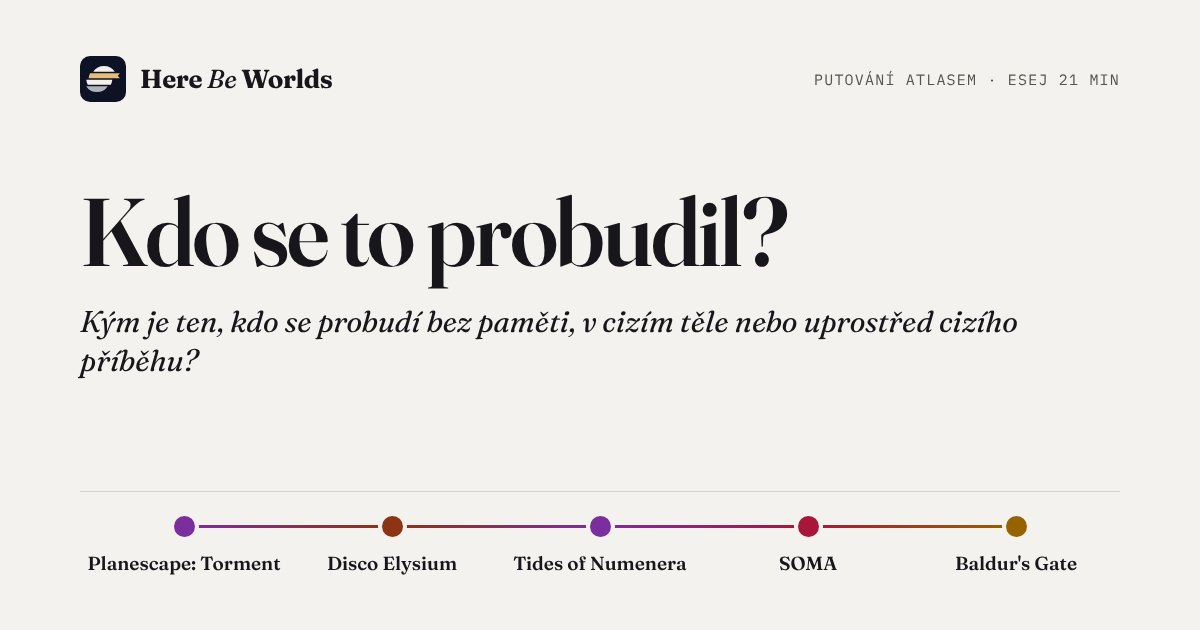
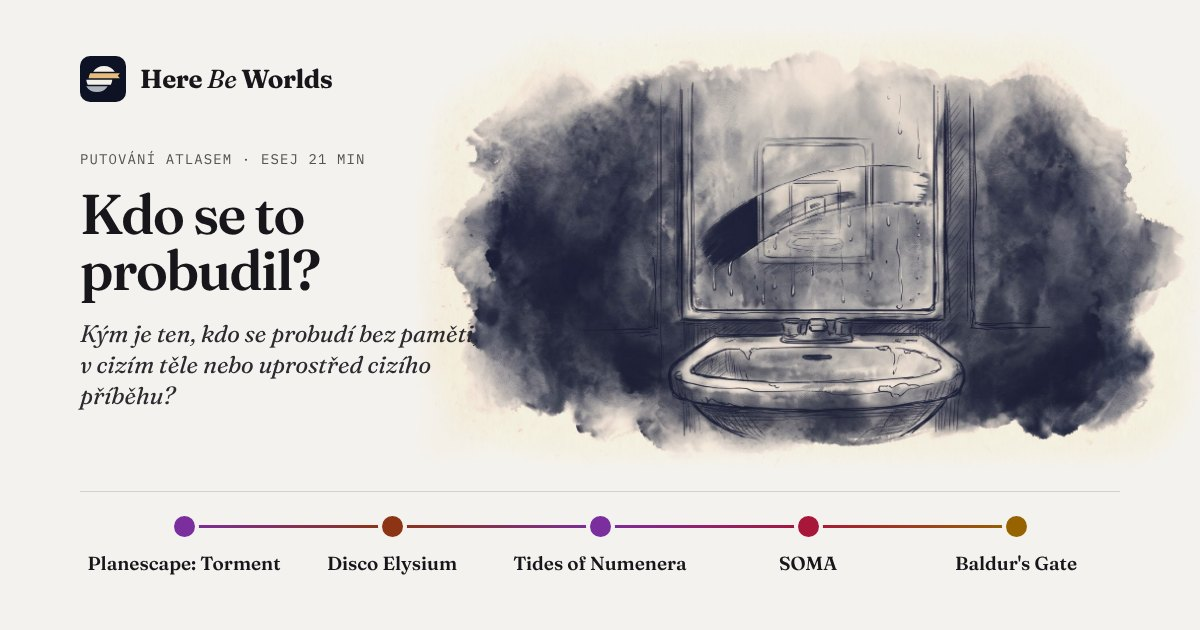
Obrázky k putování Kdo se to probudil?: zamlžené zrcadlo, dvě křesla za sklem, sklenice s pulcem
Claude-Session: https://claude.ai/code/session_01B7obWLKHHEWxurZ5a1svnf

diff --git a/src/lib/trail-images.ts b/src/lib/trail-images.ts
@@ -22,6 +22,7 @@ export const READY: Record<TrailId, number> = {
   'god-corpse': 3,
   'knows-you-play': 3,
   scapegoat: 3,
+  'who-woke-up': 3,
 };
 
 const DIR = 'putovani-obrazky';

diff --git a/CLAUDE.md b/CLAUDE.md
@@ -83,7 +83,7 @@ Kroniky a eseje **nejsou** v `data/`.
 | `/notes/` | `src/pages/notes/index.astro` | `NotesPage` — obsah oddílů (lepí se pod hlavičku, oddíl, který čteš, je podtržený; na telefonu jeden řádek posuvný do strany, 2026-11-25), rejstříkový seznam pojmů (štítek vlevo, výklad vpravo), legenda 1–5 jako pruh os; oddíly Charakter světa · Profil světa · Triáda (tři pojmy s odkazy do Anatomie a do Galerie triád / Mapy neznáma, pod nimi typy hříchů, dilemata, druhy tajemství a kdo drží mezeru s ikonami – texty z `triad-types.json`, 2026-11-24 se souhlasem majitele) · Příbuznost světů (4 pilíře, 5 stupňů slovy, bez procent) · Kompas a ladění · Hlubina času (2026-11-25 s pokynem majitele: šest pojmů – sloupec a hladina, období her a rysky, dějiny a fundamentální události, odhad, mýtus a cyklus, stupnice, naše časová osa – a odkaz na stránku; `noteDeepTime*`) · Kánon (texty v `data/meta/notes.ts`) |
 | `/anatomie-herniho-lore/` | `src/pages/anatomie-herniho-lore/index.astro` | `EssayPage` (obsah `ReadingToc` vlevo, čtecí sloupec jako kronika, doba čtení pod podtitulem) |
 | `/teoreticke-zazemi/` | `src/pages/teoreticke-zazemi/index.astro` | `EssayPage` z `content/essays/teoreticke-zazemi.md`: prameny atlasu po oblastech (fikční světy, fantastika, herní studia, hrůza a posvátno, mýtus, paměť, osoba a identita, moc a dohled, dílna tvůrců), tabulka pojmů, výhrady k autorům, co by sem ještě patřilo, seznam literatury. Odkaz z Anatomie (oddíl Na čem metoda stojí) a z patičky. **Po zapracování nové knihy doplnit i sem.** |
-| `/putovani/` | `src/pages/putovani/index.astro` | `TrailsIndex` (`src/components/trails/`, styly `trails.css`): hlavička jako atlas, filtry **Svět** a **Téma** (rozsvítí stezky, kterými svět prochází / které se tématu dotýkají, ostatní ztlumí; `?svet=<id>`, `?tema=<slug>`; klik na téma v řádku dělá totéž, jméno světa v kartě vede rovnou na spis světa (majitel 2026-11-24)); rejstřík 22 stezek jako **karty ve dvou sloupcích** (rozvržení C, majitel 2026-11-23; karta: obrázek nahoře přes celou šířku karty do ztracena, 3 : 2, pak název, popis, světy s linkou v barvě archetypu nad každým jménem, témata eseje jako hranaté štítky na tónovaném podkladu (vybrané téma v akcentu) = `themes` v `trails.ts`, 2–4 na stezku, a za nimi „Esej · N min“; karta bez obrázku je jen text; na telefonu jeden sloupec); oddíl **Kde se stezky kříží** (mřížka stezky × všechny světy podle abecedy, i ty na jediné stezce, vpravo počet (majitel 2026-11-22), tečka v barvě archetypu, pod kurzorem se rozsvítí sloupec i řádek, názvy stezek nahoře i dole; na telefonu seznam dvanácti nejvíc křížených světů). V hlavičce webu odkaz Putování hned za Atlasem; Putování dne na titulní straně vedou na stránky putování. Staré adresy `/stezky/…` přesměrovávají (`src/pages/stezky/`, `RedirectPage.astro`). Obrázky k putováním (jediné místo na webu s obrázky): styl a postup `docs/obrazky-putovani.md`, soubory `public/putovani-obrazky/`, seznam `READY` v `src/lib/trail-images.ts`; náhled v rejstříku (`TrailsIndex images`) a v eseji pod úvodním citátem a uprostřed (`EssayPage hero/hero2/heroLive`), okraj do ztracena maskou. Zatím Bohové jako břemeno, Dům, ze kterého nejde odejít, Pod lhostejnými hvězdami, Válka, kterou nikdo nevyhraje, Město, které dýchá, Uvězněni v kruhu, Mluví už jen mrtví, Netvor v zrcadle, Na mrtvole boha, Hra ví, že ji hraješ a Kdo za to může?. Zkušební náhled `/putovani/navrh-obrazku/` (noindex). |
+| `/putovani/` | `src/pages/putovani/index.astro` | `TrailsIndex` (`src/components/trails/`, styly `trails.css`): hlavička jako atlas, filtry **Svět** a **Téma** (rozsvítí stezky, kterými svět prochází / které se tématu dotýkají, ostatní ztlumí; `?svet=<id>`, `?tema=<slug>`; klik na téma v řádku dělá totéž, jméno světa v kartě vede rovnou na spis světa (majitel 2026-11-24)); rejstřík 22 stezek jako **karty ve dvou sloupcích** (rozvržení C, majitel 2026-11-23; karta: obrázek nahoře přes celou šířku karty do ztracena, 3 : 2, pak název, popis, světy s linkou v barvě archetypu nad každým jménem, témata eseje jako hranaté štítky na tónovaném podkladu (vybrané téma v akcentu) = `themes` v `trails.ts`, 2–4 na stezku, a za nimi „Esej · N min“; karta bez obrázku je jen text; na telefonu jeden sloupec); oddíl **Kde se stezky kříží** (mřížka stezky × všechny světy podle abecedy, i ty na jediné stezce, vpravo počet (majitel 2026-11-22), tečka v barvě archetypu, pod kurzorem se rozsvítí sloupec i řádek, názvy stezek nahoře i dole; na telefonu seznam dvanácti nejvíc křížených světů). V hlavičce webu odkaz Putování hned za Atlasem; Putování dne na titulní straně vedou na stránky putování. Staré adresy `/stezky/…` přesměrovávají (`src/pages/stezky/`, `RedirectPage.astro`). Obrázky k putováním (jediné místo na webu s obrázky): styl a postup `docs/obrazky-putovani.md`, soubory `public/putovani-obrazky/`, seznam `READY` v `src/lib/trail-images.ts`; náhled v rejstříku (`TrailsIndex images`) a v eseji pod úvodním citátem a uprostřed (`EssayPage hero/hero2/heroLive`), okraj do ztracena maskou. Zatím Bohové jako břemeno, Dům, ze kterého nejde odejít, Pod lhostejnými hvězdami, Válka, kterou nikdo nevyhraje, Město, které dýchá, Uvězněni v kruhu, Mluví už jen mrtví, Netvor v zrcadle, Na mrtvole boha, Hra ví, že ji hraješ, Kdo za to může? a Kdo se to probudil?. Zkušební náhled `/putovani/navrh-obrazku/` (noindex). |
 | `/putovani/[id]/` | `src/pages/putovani/[id].astro` | Stránka každého putování, adresa = český slug z `TRAIL_SLUGS` (`trails.ts`), stejný jako soubor eseje v `content/trails/`. `EssayPage` s `trail`: pod hlavičkou `TrailCast` (světy) a `TrailThemes` (témata → `/putovani/?tema=`), před Zdroji `TrailWorlds` (souřadnice s výraznými názvy, seznam světů s archetypem a podžánrem). **Esej se ukáže jen s `approved: true` ve frontmatteru** (schvaluje majitel); jinak stránka ukáže rámeček „Esej připravujeme“, Světy putování a oddíl „Na čem putování stojí“ (jména pramenů z tabulky Prameny podle stezek v `docs/prameny/README.md`, `trailSources` v `src/lib/trail-pages.ts`). Neschválené eseje mají náhled `/putovani/navrh/<slug>/` (`noindex`, z webu na něj nic nevede). Schválené (2026-11-21): `na-mrtvole-boha`, `kdo-za-to-muze`, `kdo-se-to-probudil`, `netvor-v-zrcadle`, `mluvi-uz-jen-mrtvi`, `bohove-jako-bremeno`, `valka-kterou-nikdo-nevyhraje`, `proklete-dedictvi`, `krehka-hranice-svobodne-vule`, `uvezneni-v-kruhu`, `hra-vi-ze-ji-hrajes`, `raj-ktery-se-nepovedl`, `logo-nad-troskami`, `smich-nad-propasti`, `mesto-ktere-dycha`, `pod-lhostejnymi-hvezdami`, `kdo-drzi-kroniku`, `kopie-bez-originalu`, `dum-ze-ktereho-nejde-odejit`, `prace-ktera-nikdy-nekonci`, `jmeno-jako-klic-i-kletba`, `nakaza-s-vlastni-vuli` (všech 22). |
 | `/temata/` | `src/pages/temata/index.astro` | `ThemesIndex` (`src/components/themes/`, styly `themes.css`, 2026-11-24): pás hlavičky, řazení Podle abecedy / Podle počtu světů, rejstřík témat ve dvou sloupcích (název → stránka tématu, otázka kurzívou, otisk světů jako čtverečky v barvě archetypu, počet světů a putování) a **Kde se témata potkávají** (trojúhelníková mřížka téma × téma, kruh podle počtu světů s oběma tématy, prázdné šrafované, najetí rozsvítí řádek i sloupec a vypíše dvojici; na telefonu skrytá). |
 | `/temata/[slug]/` | `src/pages/temata/[slug].astro` | `ThemePage`, adresa = český název bez diakritiky (`themePageSlug` v `src/lib/themes.ts`). Hlavička v pásu: štítek „Téma“ (odkaz na rejstřík), název, otázka, „N světů · N archetypů · N putování“, vpravo **obloha z titulní strany v tuši** (`ThemeSky`; hvězdy na stejných místech díky `src/lib/sky.ts`, světy tématu rozsvícené v barvě archetypu a spojené přerušovanou nejkratší trasou, ostatní tlumeně; najetí na hvězdu ukáže jméno). Oddíly: **Světy** (záznamy ve třech sloupcích: linka v barvě archetypu, název, archetyp · podžánr, jádro kurzívou; najetí rozsvítí hvězdu) · **Podoba tématu** (Archetypy: řádek na archetyp, čtverečky = všechny jeho světy, plné = s tématem; Souřadnice: `AxisRange` s prázdným kosočtvercem průměru celého atlasu `reference`) · **Putování** (putování s tématem v `trails.ts` `themes`, první obrázek přes masku, otázka eseje, trasa světů, světy tématu tučně) · **Potkává se s** (šest témat nejčastěji ve stejných světech, `neighbourThemes`; není to příbuznost světů) · odkazy Otevřít v atlasu · Všechna témata. Podklady skládá při sestavení `src/lib/theme-pages.ts`. Odkazy na stránky témat: hledání (lupa), atlas (Další pohledy a „O tématu …“ pod počtem výsledků při filtru tématu), patička. Témata na kartě světa vedou na stránky témat (majitel 2026-11-24). |

diff --git a/docs/obrazky-putovani.md b/docs/obrazky-putovani.md
@@ -21,7 +21,7 @@ Stav 2026-11-23: styl nalezený po pěti kolech zkoušek (náhled `/putovani/nav
 - Masky: `maska/<slug>-N.png` podle tuše pro tmavý motiv (`python3 scripts/ink-masks.py`, pak zkopírovat z `navrh-obrazku/maska/`, nebo upravit cestu ve skriptu), `maska/freska.png` obecná.
 - Které putování obrázky má: `READY` v `src/lib/trail-images.ts`. Obrázky se ukážou jen u schválené eseje.
 - Rejstřík `/putovani/` má rozvržení karet ve dvou sloupcích s obrázkem nahoře (C, vybráno ze tří variant: A obraz za textem, B střídavé desky). Dokud nemají obrázky všechna putování, stojí vedle karty s obrázkem textové karty.
-- Na webu (2026-11-23): Hra ví, že ji hraješ (městečko na jevišti s roztrženým namalovaným nebem; postavička vylezlá z ilustrace v knize; stín, který vypadl z obrazu na podlahu); Na mrtvole boha (tři: prázdný plášť na trůnu držený provazy davu; trůn, kterým prorůstá bříza; jablko s žebry místo jádřince); Netvor v zrcadle (zatím jeden: stopy ve sněhu, které se z bot mění v tlapy); Mluví už jen mrtví (tři: prázdný kabát, který ukazuje cestu; můra s křídly z deníku; potopená hlava sochy, z níž stoupají listy dopisu k loďce); Uvězněni v kruhu (tři: klíč stočený do kruhu se stínem rovného klíče; vajíčko ve vajíčku; z kouře dohořelé sirky nová sirka); Bohové jako břemeno (katedrála ze žeber, kamenné víčko); Město, které dýchá (domy, které se otáčejí za chodcem; most z dlažby, kořenů, copů a prádla); Dům, ze kterého nejde odejít (měsíc jako zlatá klíčová dírka nad městečkem, okno uprostřed pláně s pokojem uvnitř). Válka, kterou nikdo nevyhraje (tři obrázky: prapory z hejn ptáků, kolotoč z děl, kavalerie z rozbitých hodin se svíčkou v temnu); Pod lhostejnými hvězdami (žebřík opřený o nebe s prázdnými botami a lucernou, gramofon, ze kterého se sypou hvězdy, u táboráku); Kdo za to může? (tři: prázdná rukavice ukazuje na zrcátko a odraz ukazuje zpět na diváka; koberec, pod jehož rohem je jáma se schody a koště z brků; z hranice srolovaných dopisů odplouvá kouř jako spící beránek, 2026-11-25). Postup: 5 motivů, vybrat 2. **Motivy: surrealismus a neobvyklé kompozice, klidně velké měřítko a zachycený pohyb (Magritte, Dalí), neobvyklé spojení předmětů (v duchu Magritta), jen lehce doslovné** — první kolo s doslovnými motivy (tapeta, dveře, kolébka) majitel zamítl jako nenápadité. Do promptu řádek `Mood: subtle surrealism in the spirit of Magritte: one unexpected combination, quiet and uncanny, never literal or explanatory. Rich in discoverable detail: several unexpected secondary motifs are woven into the main forms, so the viewer keeps finding new things on a second look.` Po přidání prvního obrázku obnovit kartu pro sdílení: `npm run og -- <slug> putovani` (fonty a Chromium viz CLAUDE.md). Masky: `python3 scripts/ink-masks.py public/putovani-obrazky/<slug>-1.jpg …`; když je světlý papír uprostřed součástí motivu (mezera mezi konci mostu), přidej `--fill`. Skript dělá dvě masky: `<soubor>.png` pro tmavý motiv a širokou `<soubor>-light.png` pro světlý (papír tam schová multiply a lehké vybělení `brightness(1.06) saturate(0.8)`, maska nesmí zamlžit slabé tahy; majitel 2026-11-23). Ve světlém motivu se v eseji kresba ořezává jen širokou maskou (fresková by ořízla tahy štětce nahoře a stopy u spodního okraje); v tmavém motivu (esej i rejstřík) jen fresková maska: tvar je vždy **zvlněný obdélník do ztracena**, nikdy vykrojený podle skvrn tuše (majitel 2026-11-23). Zkoušený okraj podle tahů štětce se světlým lemem majitel zamítl jako „příliš“: v tmavém motivu okraje nebudou tak působivé jako ve světlém a je to tak správně; v rejstříku zůstává i fresková (obrázek je tam oříznutý na 3 : 2).
+- Na webu (2026-11-23): Hra ví, že ji hraješ (městečko na jevišti s roztrženým namalovaným nebem; postavička vylezlá z ilustrace v knize; stín, který vypadl z obrazu na podlahu); Na mrtvole boha (tři: prázdný plášť na trůnu držený provazy davu; trůn, kterým prorůstá bříza; jablko s žebry místo jádřince); Netvor v zrcadle (zatím jeden: stopy ve sněhu, které se z bot mění v tlapy); Mluví už jen mrtví (tři: prázdný kabát, který ukazuje cestu; můra s křídly z deníku; potopená hlava sochy, z níž stoupají listy dopisu k loďce); Uvězněni v kruhu (tři: klíč stočený do kruhu se stínem rovného klíče; vajíčko ve vajíčku; z kouře dohořelé sirky nová sirka); Bohové jako břemeno (katedrála ze žeber, kamenné víčko); Město, které dýchá (domy, které se otáčejí za chodcem; most z dlažby, kořenů, copů a prádla); Dům, ze kterého nejde odejít (měsíc jako zlatá klíčová dírka nad městečkem, okno uprostřed pláně s pokojem uvnitř). Válka, kterou nikdo nevyhraje (tři obrázky: prapory z hejn ptáků, kolotoč z děl, kavalerie z rozbitých hodin se svíčkou v temnu); Pod lhostejnými hvězdami (žebřík opřený o nebe s prázdnými botami a lucernou, gramofon, ze kterého se sypou hvězdy, u táboráku); Kdo za to může? (tři: prázdná rukavice ukazuje na zrcátko a odraz ukazuje zpět na diváka; koberec, pod jehož rohem je jáma se schody a koště z brků; z hranice srolovaných dopisů odplouvá kouř jako spící beránek, 2026-11-25); Kdo se to probudil? (tři: zamlžené zrcadlo nad umyvadlem, v jehož setřeném pruhu je další zrcadlo; dvě stejná křesla v pokoji rozděleném sklem, které prochází mincí na hraně; sklenice s pulcem, jehož stín na zdi jsou chapadla; 2026-11-25). Postup: 5 motivů, vybrat 2. **Motivy: surrealismus a neobvyklé kompozice, klidně velké měřítko a zachycený pohyb (Magritte, Dalí), neobvyklé spojení předmětů (v duchu Magritta), jen lehce doslovné** — první kolo s doslovnými motivy (tapeta, dveře, kolébka) majitel zamítl jako nenápadité. Do promptu řádek `Mood: subtle surrealism in the spirit of Magritte: one unexpected combination, quiet and uncanny, never literal or explanatory. Rich in discoverable detail: several unexpected secondary motifs are woven into the main forms, so the viewer keeps finding new things on a second look.` Po přidání prvního obrázku obnovit kartu pro sdílení: `npm run og -- <slug> putovani` (fonty a Chromium viz CLAUDE.md). Masky: `python3 scripts/ink-masks.py public/putovani-obrazky/<slug>-1.jpg …`; když je světlý papír uprostřed součástí motivu (mezera mezi konci mostu), přidej `--fill`. Skript dělá dvě masky: `<soubor>.png` pro tmavý motiv a širokou `<soubor>-light.png` pro světlý (papír tam schová multiply a lehké vybělení `brightness(1.06) saturate(0.8)`, maska nesmí zamlžit slabé tahy; majitel 2026-11-23). Ve světlém motivu se v eseji kresba ořezává jen širokou maskou (fresková by ořízla tahy štětce nahoře a stopy u spodního okraje); v tmavém motivu (esej i rejstřík) jen fresková maska: tvar je vždy **zvlněný obdélník do ztracena**, nikdy vykrojený podle skvrn tuše (majitel 2026-11-23). Zkoušený okraj podle tahů štětce se světlým lemem majitel zamítl jako „příliš“: v tmavém motivu okraje nebudou tak působivé jako ve světlém a je to tak správně; v rejstříku zůstává i fresková (obrázek je tam oříznutý na 3 : 2).
 
 ## Jak generovat
 
